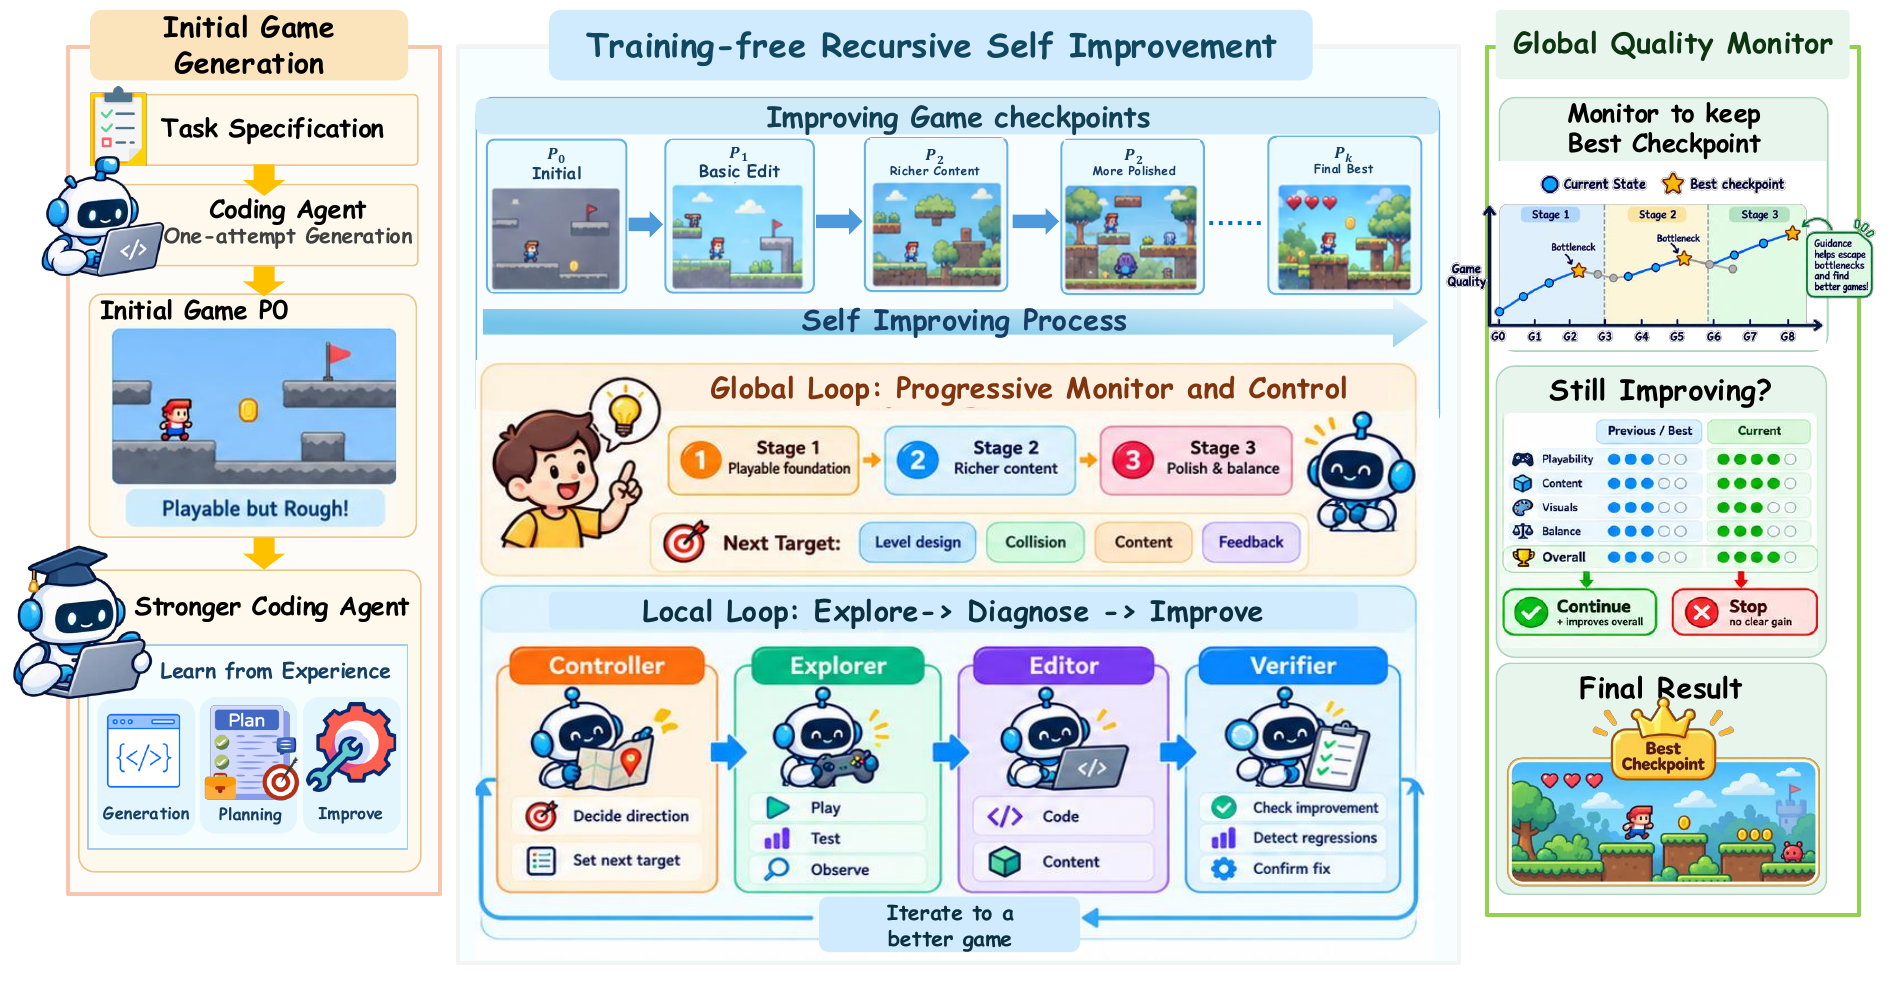
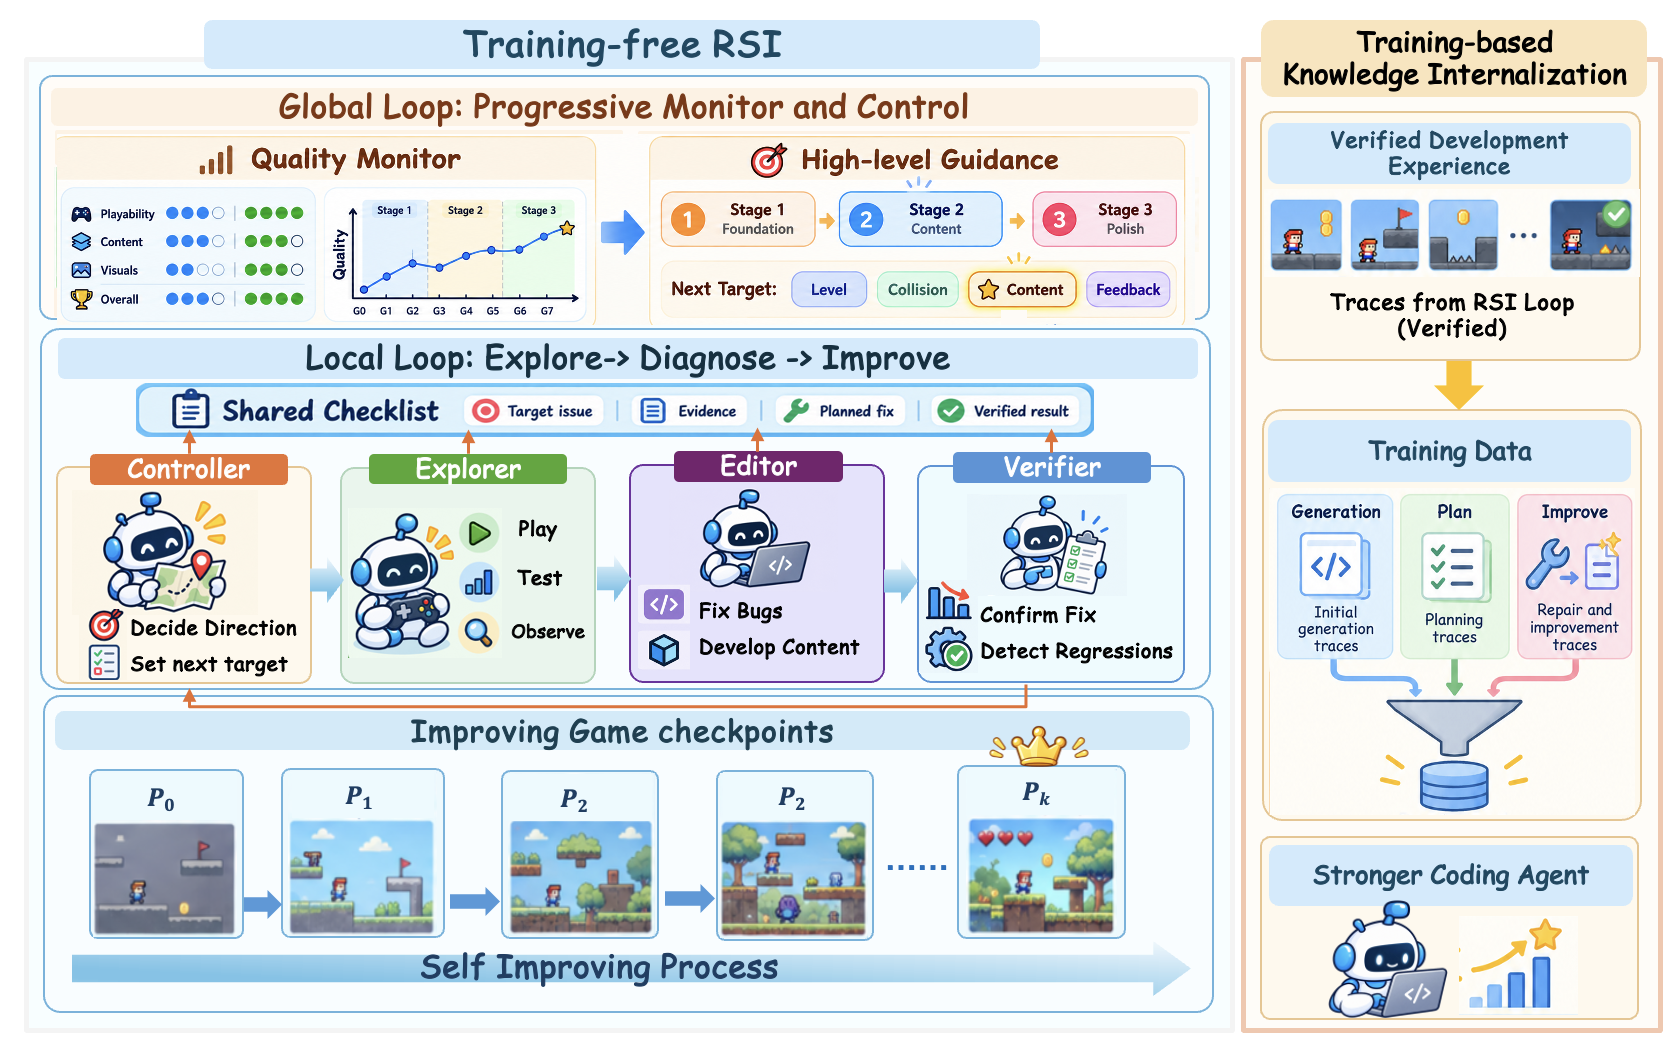
Pre-release cleanup: run metering, SFT defaults, docs and assets
Meter every model call in a run, not only the repair subprocess; match the
SFT defaults to the released adapter; move the leak test's internal names to
a local, gitignored list; refresh README, figures and demo assets so the
abstract and terminology match the paper.

diff --git a/src/rsigame/loop.py b/src/rsigame/loop.py
@@ -351,28 +351,73 @@ class Game:
              'argv': sys.argv, 'started': time.time()},
             ensure_ascii=False, indent=1))
 
-    def start_proxy(self):
-        """Count the repair subprocess's tokens. It reports none of its own.
+    # Which variables name an endpoint this loop talks to. The repair
+    # subprocess reads its own pair and is handled separately, because it is a
+    # subprocess and inherits the environment we hand it.
+    _PROXIED = ('RSIGAME_JUDGE_QUALITY_JUDGE_BASE_URL', 'RSIGAME_GENERATOR_BASE_URL',
+                'OPENAI_BASE_URL', 'RSIGAME_MONITOR_BASE_URL')
+    _UPSTREAM_DEFAULT = 'https://openrouter.ai/api/v1'
 
-        `log.json`'s `cost` is null on this endpoint, so a round that went
-        silent leaves no record of how long its context had grown -- which is
-        the first thing worth knowing about a session that stopped answering.
+    def start_proxy(self):
+        """Meter every model call this run makes, not only the repair subprocess.
+
+        The repair agent reports nothing of its own -- `log.json`'s `cost` is
+        null on this endpoint -- so a round that went silent leaves no record of
+        how long its context had grown. That was the original reason for the
+        proxy. But metering only the repair half answers "what did the coding
+        agent cost", while the question a cost column is read for is "what did
+        the run cost", and the Controller, Explorer, Verifier and Monitor calls
+        were missing from it entirely.
+
+        ONLY ENDPOINTS THAT ALREADY MATCH. The proxy forwards to one upstream
+        and signs with one key, so pointing a variable at it that named a
+        different host would send those calls somewhere they do not belong --
+        the Monitor in particular defaults to its own provider. A variable is
+        therefore redirected only when it already resolves to this upstream,
+        and the ones left alone are named in the log rather than passed over in
+        silence: a cost column that quietly omits a component is worse than one
+        that says what it omits.
         """
         try:
             from rsigame.eval.token_proxy import TokenProxy
             up = (os.environ.get('RSIGAME_JUDGE_QUALITY_JUDGE_BASE_URL')
                   or os.environ.get('RSIGAME_GENERATOR_BASE_URL')
                   or os.environ.get('OPENAI_BASE_URL')
-                  or 'https://openrouter.ai/api/v1')
+                  or self._UPSTREAM_DEFAULT)
             key = (os.environ.get('OPENROUTER_API_KEY')
                    or os.environ.get('OPENAI_API_KEY') or '')
-            self.proxy = TokenProxy(up, self.dir / 'repair_token_calls.jsonl', key)
+            self.proxy = TokenProxy(up, self.dir / 'all_token_calls.jsonl', key)
             url = self.proxy.start()
             os.environ['RSIGAME_REPAIR_OPENAI_BASE_URL'] = url
             os.environ['RSIGAME_REPAIR_API_KEY'] = key
+            on, off = [], []
+            for var in self._PROXIED:
+                cur = (os.environ.get(var) or self._UPSTREAM_DEFAULT).rstrip('/')
+                if cur == up.rstrip('/'):
+                    os.environ[var] = url
+                    on.append(var)
+                else:
+                    off.append(f'{var}={cur}')
+            log(self.dir, f'  token proxy metering {len(on) + 1} endpoint(s)'
+                          + (f'; NOT metered: {", ".join(off)}' if off else ''))
         except Exception as exc:
             self.proxy = None
             log(self.dir, f'  token proxy did not start: {type(exc).__name__}: {str(exc)[:120]}')
+
+    def stop_proxy(self):
+        """Totals beside the call log, so a reader needs no aggregation step."""
+        if not getattr(self, 'proxy', None):
+            return
+        try:
+            (self.dir / 'all_token_totals.json').write_text(
+                json.dumps(self.proxy.snapshot(), indent=1))
+        except Exception as exc:
+            log(self.dir, f'  token totals not written: {type(exc).__name__}')
+        finally:
+            try:
+                self.proxy.stop()
+            except Exception:
+                pass
 
     def save(self):
         (self.dir / 'rounds.json').write_text(
@@ -2099,7 +2144,7 @@ def main():
     start = len(g.rounds) + 1
     # THE MONITOR, LIVE. Off unless [monitor] live = true. When it is on it
     # judges each checkpoint against the held champion as the run goes and ends
-    # the run once Value Stop fires -- see monitor/live.py for what that costs.
+    # the run once the saturation stop fires -- see monitor/live.py for what that costs.
     from .monitor import live as LIVE
     mon = None
     if LIVE.enabled():
@@ -2224,6 +2269,9 @@ def main():
             art_close(g)
         except Exception:
             log(g.dir, f'  the final reading crashed:\n{traceback.format_exc()[-600:]}')
+    # After every exit path, including the value stop's `break`: a run that
+    # ended early spent what it spent.
+    g.stop_proxy()
     log(g.dir, f'\n{a.game}: {len(g.rounds)} rounds written to {g.dir}')
 
 

diff --git a/tests/test_no_leaks.py b/tests/test_no_leaks.py
@@ -4,15 +4,16 @@ This started as a one-off scan before the first publish. It is a test because
 the things it catches come back: a debug script with an absolute path, a key
 pasted into a docstring, an internal endpoint in a config example.
 
-The `internal infra` pattern grew when the training and corpus code was lifted
-in from the cluster it ran on. That code was written against a job scheduler, a
-shared filesystem and an internal package mirror, and each of those leaves a
-recognisable word behind. A reader outside the lab cannot use any of them, so
-none of them belongs here -- the generic name for the thing does.
+Names of people and internal infrastructure are not spelled out here, nor
+hashed (short words hash back by dictionary): a list of them in the repo would
+itself be the leak. They live in tests/leak_terms.local.txt, which is
+gitignored; one term per line, # for comments. Without that file the
+`internal names` check is skipped.
 """
 from __future__ import annotations
 
 import re
+import subprocess
 from pathlib import Path
 
 import pytest
@@ -34,15 +35,51 @@ PATTERNS = {
                                r'|/storage/[A-Za-z_][A-Za-z0-9_.\-]*/'),
     'personal email': re.compile(r'[A-Za-z0-9._%+\-]+@(?!example\.)[A-Za-z0-9.\-]+\.[A-Za-z]{2,}'),
 }
+
+LOCAL_TERMS = ROOT / 'tests' / 'leak_terms.local.txt'
+WORD = re.compile(r'[a-z0-9][a-z0-9.\-]*')
+
 # The scan reads itself, so its own patterns would match. Nothing else is exempt.
 EXEMPT = {'tests/test_no_leaks.py'}
 
 
+def local_terms():
+    if not LOCAL_TERMS.is_file():
+        return set()
+    lines = (l.split('#', 1)[0].strip().lower() for l in LOCAL_TERMS.read_text().splitlines())
+    return {l for l in lines if l}
+
+
+def internal_hits(text: str, terms):
+    """(offset, word) for every word, host suffix or word pair on the local list."""
+    words = [(m.start(), m.group(0).strip('.-')) for m in WORD.finditer(text.lower())]
+    for i, (pos, w) in enumerate(words):
+        cands = {w}
+        parts = w.split('.')
+        cands |= {'.'.join(parts[k:]) for k in range(1, len(parts))}   # a.b.corp.org -> corp.org
+        if i + 1 < len(words):
+            cands.add(f'{w} {words[i + 1][1]}')
+        for c in cands & terms:
+            yield pos, c
+
+
+def _candidates():
+    """What a push would publish: tracked files plus new ones not yet ignored.
+    Gitignored local files (configs/local/, *.local.*) hold this machine's paths
+    on purpose and never leave it. Outside a git checkout, scan everything."""
+    try:
+        out = subprocess.run(['git', 'ls-files', '-z', '--cached', '--others', '--exclude-standard'],
+                             cwd=ROOT, capture_output=True, check=True).stdout
+        return [ROOT / r for r in out.decode().split('\0') if r]
+    except (OSError, subprocess.CalledProcessError):
+        return list(ROOT.rglob('*'))
+
+
 def files():
-    for p in ROOT.rglob('*'):
+    for p in _candidates():
         if not p.is_file() or p.suffix.lower() in BINARY:
             continue
-        if any(part in SKIP_DIRS for part in p.parts):
+        if any(part in SKIP_DIRS for part in p.relative_to(ROOT).parts):
             continue
         rel = str(p.relative_to(ROOT))
         if rel in EXEMPT:
@@ -50,16 +87,20 @@ def files():
         yield p, rel
 
 
-@pytest.mark.parametrize('kind', sorted(PATTERNS))
+@pytest.mark.parametrize('kind', sorted(PATTERNS) + ['internal names'])
 def test_no_leaks(kind):
-    rx = PATTERNS[kind]
+    terms = local_terms() if kind not in PATTERNS else set()
+    if kind not in PATTERNS and not terms:
+        pytest.skip('no tests/leak_terms.local.txt on this machine')
     hits = []
     for p, rel in files():
         try:
             text = p.read_text(errors='replace')
         except OSError:
             continue
-        for m in rx.finditer(text):
-            line = text[:m.start()].count('\n') + 1
-            hits.append(f'{rel}:{line}: {m.group(0)[:60]}')
+        found = (((m.start(), m.group(0)) for m in PATTERNS[kind].finditer(text))
+                 if kind in PATTERNS else internal_hits(text, terms))
+        for pos, s in found:
+            line = text[:pos].count('\n') + 1
+            hits.append(f'{rel}:{line}: {s[:60]}')
     assert not hits, f'{kind} found:\n  ' + '\n  '.join(hits[:20])

diff --git a/src/rsigame/training/sft.py b/src/rsigame/training/sft.py
@@ -130,6 +130,7 @@ def build_command(a: argparse.Namespace, resume: list[str]) -> list[str]:
         '--per_device_train_batch_size', '1',
         '--gradient_accumulation_steps', '1',
         '--num_train_epochs', '1',
+        '--optim', 'adamw_torch_fused',
         '--learning_rate', str(a.learning_rate),
         '--weight_decay', str(a.weight_decay),
         '--warmup_ratio', str(a.warmup_ratio),
@@ -173,8 +174,8 @@ def main(argv: list[str] | None = None) -> int:
     ap.add_argument('--nproc', type=int, default=int(env('RSIGAME_SFT_NPROC', '4')))
     ap.add_argument('--port', type=int, default=0, help='0 asks the kernel for a free one')
     ap.add_argument('--attn', default='sdpa')
-    ap.add_argument('--truncation', default='delete',
-                    help="'delete' drops a row that does not fit rather than cutting it")
+    ap.add_argument('--truncation', default='right',
+                    help="'right' cuts a row that does not fit (the released adapter); 'delete' drops it instead")
     ap.add_argument('--no-quantize', dest='quantize', action='store_false')
     ap.add_argument('--no-rslora', dest='rslora', action='store_false')
     ap.add_argument('--padding-free', action='store_true')
@@ -184,19 +185,20 @@ def main(argv: list[str] | None = None) -> int:
     ap.add_argument('--lora-alpha', type=int, default=int(env('RSIGAME_SFT_LORA_ALPHA', 32)))
     ap.add_argument('--lora-dropout', type=float,
                     default=float(env('RSIGAME_SFT_LORA_DROPOUT', 0.05)))
-    ap.add_argument('--learning-rate', default=env('RSIGAME_SFT_LEARNING_RATE', '1e-4'))
+    ap.add_argument('--learning-rate', default=env('RSIGAME_SFT_LEARNING_RATE', '5e-5'))
     ap.add_argument('--weight-decay', type=float, default=float(env('RSIGAME_SFT_WEIGHT_DECAY', 0.01)))
     ap.add_argument('--warmup-ratio', type=float, default=float(env('RSIGAME_SFT_WARMUP_RATIO', 0.03)))
     ap.add_argument('--max-grad-norm', type=float, default=float(env('RSIGAME_SFT_MAX_GRAD_NORM', 1.0)))
     ap.add_argument('--scheduler', default=env('RSIGAME_SFT_SCHEDULER', 'cosine'))
-    ap.add_argument('--max-length', type=int, default=int(env('RSIGAME_SFT_MAX_LENGTH', 32768)))
+    ap.add_argument('--max-length', type=int, default=int(env('RSIGAME_SFT_MAX_LENGTH', 57344)))
     ap.add_argument('--save-steps', type=int, default=int(env('RSIGAME_SFT_SAVE_STEPS', 25)))
     ap.add_argument('--save-limit', type=int, default=int(env('RSIGAME_SFT_SAVE_LIMIT', 6)))
     ap.add_argument('--sequence-parallel-size', type=int,
                     default=int(env('RSIGAME_SFT_SEQUENCE_PARALLEL_SIZE', 4)),
                     help='forced by the KV-head count; see the module docstring')
-    ap.add_argument('--loss-scale', default=env('RSIGAME_SFT_LOSS_SCALE', 'default'),
-                    help="'default' supervises every assistant turn; 'last_round' only the target")
+    ap.add_argument('--loss-scale', default=env('RSIGAME_SFT_LOSS_SCALE', 'default+ignore_empty_think'),
+                    help="'default+ignore_empty_think' (released adapter) supervises every assistant turn "
+                         "minus empty think blocks; 'last_round' only the target")
     ap.add_argument('--agent-template', default=env('RSIGAME_SFT_AGENT_TEMPLATE', 'hermes'),
                     help='how the tools column is rendered; must match how the corpus was built')
     a = ap.parse_args(argv)

diff --git a/src/rsigame/review/og_branch.py b/src/rsigame/review/og_branch.py
@@ -174,7 +174,7 @@ def main():
                                     'RSIGAME_CONTROLLER_ART_ROUNDS', 'RSIGAME_CONTROLLER_ASSET_CAP', 'RSIGAME_LOOP_LEAN_REPAIR')}},
         indent=1))
     loop_log = open(root / 'og' / f'{g}.loop.out', 'ab')
-    loop = subprocess.Popen([PY, '-u', str(REPO / 'scripts/evogame/metered_loop.py'), g,
+    loop = subprocess.Popen([PY, '-u', str(REPO / 'scripts/metered_loop.py'), g,
                              '--rounds', str(MAX_ROUNDS), '--root', str(root), '--corpus', str(corpus),
                              '--port', str(a.port)],
                             cwd=str(RUN), env=env, stdout=loop_log, stderr=subprocess.STDOUT)
@@ -190,7 +190,7 @@ def main():
                        # Three gradings per comparison, median reported: one
                        # grading flipped a champion between two identical runs.
                        'RSIGAME_MONITOR_PASSES': os.environ.get('RSIGAME_MONITOR_PASSES', '3')})
-    sys.path.insert(0, str(REPO / 'scripts/evogame'))
+    sys.path.insert(0, str(REPO / 'scripts'))
     import rsigame.monitor.vm_replay as VM                                  # reads the env above at import
     (root / 'vm').mkdir(parents=True, exist_ok=True)
     rb = VM.load_rubric(g)

diff --git a/src/rsigame/monitor/live.py b/src/rsigame/monitor/live.py
@@ -20,7 +20,7 @@ same budget. Set `[monitor] live = true` when that is what you want to study.
 
 WHAT IT DOES. At each checkpoint boundary it makes the same decision the
 offline sweep makes -- this checkpoint against the held champion, adopt or keep
--- appends it to the same champion trace, and applies Value Stop: once the
+-- appends it to the same champion trace, and applies the saturation stop: once the
 champion has survived K consecutive checkpoints, the run ends at the next round
 boundary and the champion is what it delivers.
 
@@ -81,7 +81,7 @@ class LiveMonitor:
         return rec
 
     def stop(self) -> Stop | None:
-        """Value Stop over the trace so far, or None while it is still paying.
+        """The saturation stop over the trace so far, or None while it is still paying.
 
         `value_stop` answers for a finished trace, so a mid-run call has to
         ignore its "never settled" fallback: a run that has not saturated yet

diff --git a/src/rsigame/monitor/vm_replay.py b/src/rsigame/monitor/vm_replay.py
@@ -36,9 +36,8 @@ scores (RSIGAME_MONITOR_R0_DIR/<game>/p1), round r from RSIGAME_MONITOR_RUN/runs
 and candidate share no demo name, the champion is re-recorded on the
 candidate's demo inputs (stub judge, one pass).
 
-    source scripts/evogame/env.sh
-    RSIGAME_MONITOR_RUN=runs/evogame_glm30 RSIGAME_MONITOR_R0_DIR=r0_scores/godot_glm RSIGAME_MONITOR_R0_TREES=basegames/godot_glm \
-    RSIGAME_MONITOR_OUT=vm/glm30 python scripts/evogame/vm_replay.py --games handoff/main_glm120.txt [--jobs 6]
+    RSIGAME_MONITOR_RUN=runs/rsigame_glm30 RSIGAME_MONITOR_R0_DIR=r0_scores/godot_glm RSIGAME_MONITOR_R0_TREES=basegames/godot_glm \
+    RSIGAME_MONITOR_OUT=vm/glm30 python scripts/vm_replay.py --games handoff/main_glm120.txt [--jobs 6]
 
 RSIGAME_MONITOR_R0_TREES/<game> (or <game>/game) is the base game's project. Writes
 RSIGAME_MONITOR_OUT/<game>.jsonl (one line per checkpoint, resumable) and RSIGAME_MONITOR_OUT/champ.json.

diff --git a/src/rsigame/review/og_stage2.py b/src/rsigame/review/og_stage2.py
@@ -46,7 +46,7 @@ from . import cases as C
 def stage_summary(recs: list[dict], rounds: list[dict]) -> str:
     """What happened during the stage: how each checkpoint was judged and what
     each round worked on. The first round's version of this field was computed
-    from the Value Stop replay; here the branch produced it itself, so the
+    from the saturation-stop replay; here the branch produced it itself, so the
     record is read directly."""
     out = [f'Autonomous development rounds completed: {len(rounds)}', '',
            'Champion (best build so far), checked every 3 rounds:']

diff --git a/src/rsigame/review/cases.py b/src/rsigame/review/cases.py
@@ -17,7 +17,7 @@
     cases.py --run-id pilot1 --out review/cases/pilot1 \
              --runs RUN_ROOT --r0-runs R0_ROOT --vm RSIGAME_MONITOR_OUT --games g1,g2,...
 
-For each game, the saturated checkpoint P* is what Value Stop would deliver:
+For each game, the saturated checkpoint P* is what the saturation stop would deliver:
 walking the offline Monitor's checkpoints (vm_replay.py), the run stops at the
 first checkpoint where the champion has gone unchanged for STOP_AFTER
 consecutive checkpoints, and P* is the champion at that moment.

diff --git a/src/rsigame/preflight.py b/src/rsigame/preflight.py
@@ -146,7 +146,7 @@ def main() -> int:
     ok(key, 'a model API key is in the environment')
 
     # 6b. image generation -------------------------------------------------
-    # EvoGame's art rounds call generate_game_assets (unlike the repair line,
+    # RSIGame's art rounds call generate_game_assets (unlike the repair line,
     # which never does). Read from the environment, falling back to
     # agent-test/.env, which the node agent loads with dotenv.
     envf = {}

diff --git a/src/rsigame/review/og_reselect.py b/src/rsigame/review/og_reselect.py
@@ -69,7 +69,7 @@ def one(branch_root: Path, case: Path, jsonl_out: Path) -> dict:
     rounds_json = str(branch_root / 'runs' / g / 'rounds.json')
     code = f'''
 import json, sys, time
-sys.path.insert(0, {str(RUN / "scripts" / "evogame")!r})
+sys.path.insert(0, {str(RUN / "scripts")!r})
 sys.path.insert(0, {str(RUN)!r})
 import rsigame.monitor.vm_replay as VM
 from rsigame.eval.estimator import pairs as P, score_pair, aggregate, stage_rubric as SR

diff --git a/tests/test_value_stop.py b/tests/test_value_stop.py
@@ -11,7 +11,7 @@
 # WITHOUT WARRANTIES OR CONDITIONS OF ANY KIND, either express or implied.
 # See the License for the specific language governing permissions and
 # limitations under the License.
-"""Value Stop: the rule that decides when a run has stopped paying."""
+"""The saturation stop: the rule that decides when a run has stopped paying."""
 import pytest
 
 from rsigame.monitor.value_stop import value_stop

diff --git a/src/rsigame/monitor/value_stop.py b/src/rsigame/monitor/value_stop.py
@@ -49,7 +49,7 @@ def stop_k() -> int:
 
 @dataclass
 class Stop:
-    """Where Value Stop would have ended one game."""
+    """Where the saturation stop would have ended one game."""
     game: str
     checkpoint: int       # index into the checkpoint list
     round: int            # the round that checkpoint corresponds to
